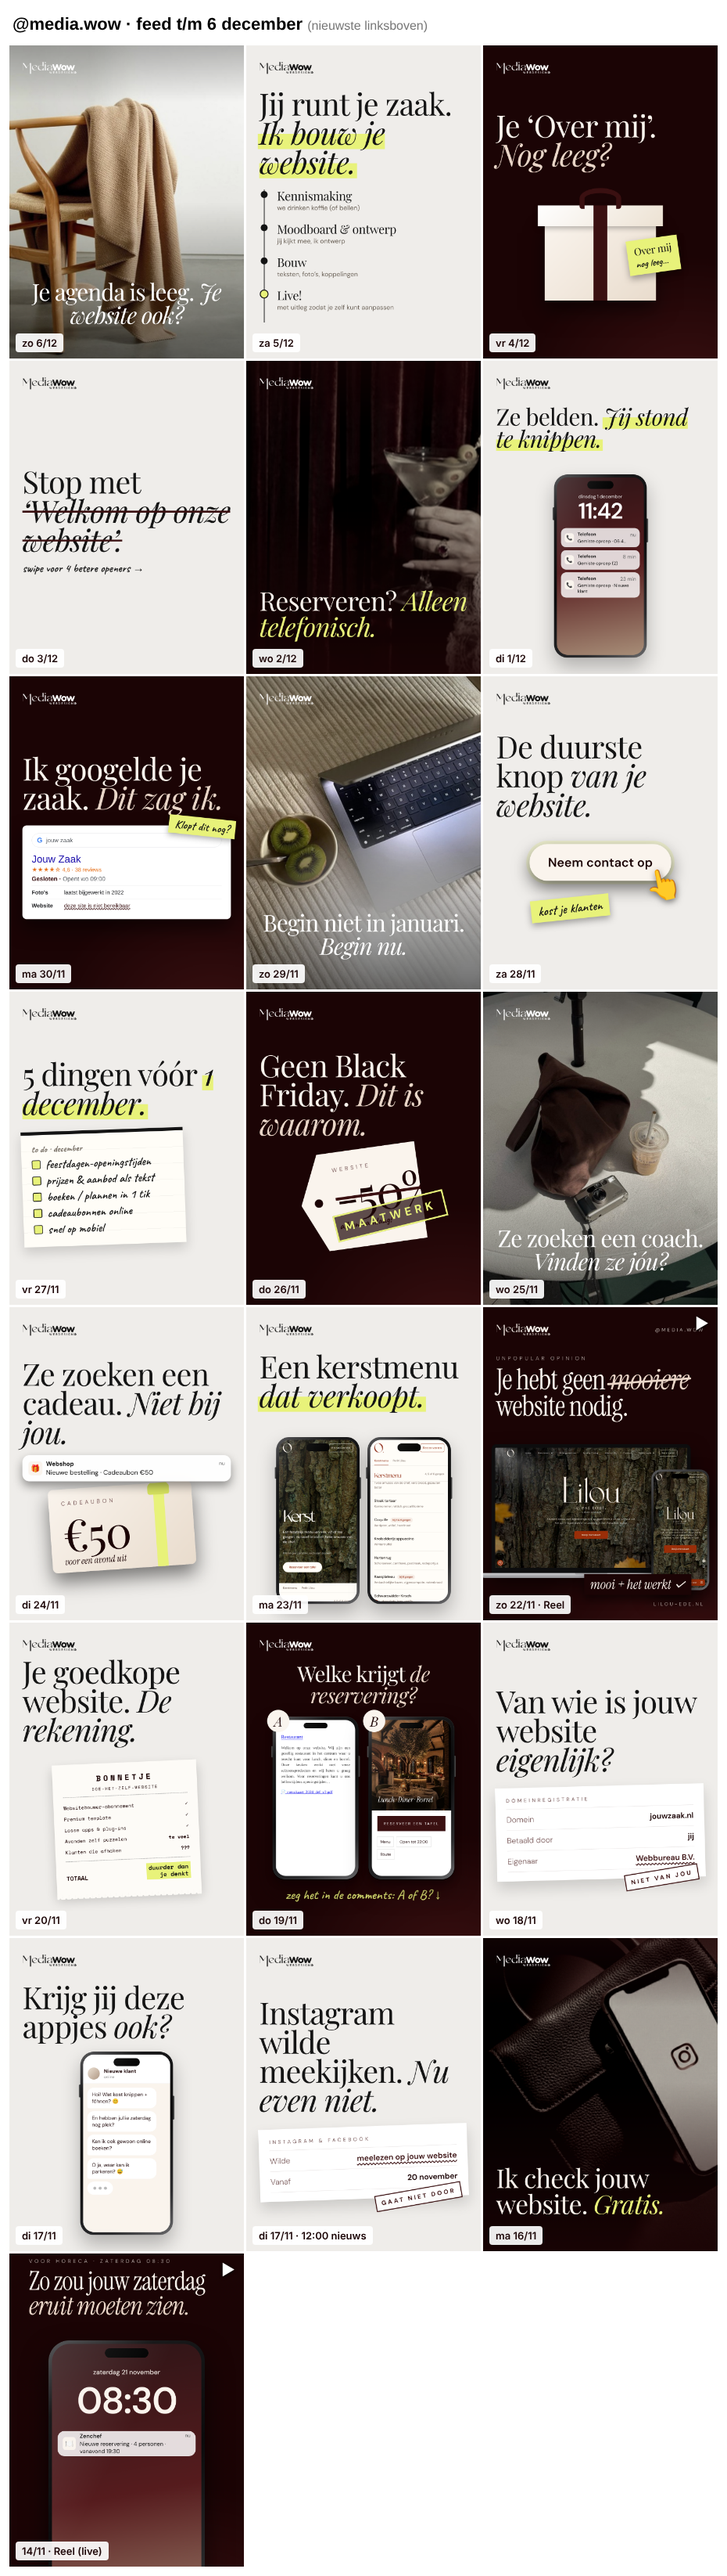
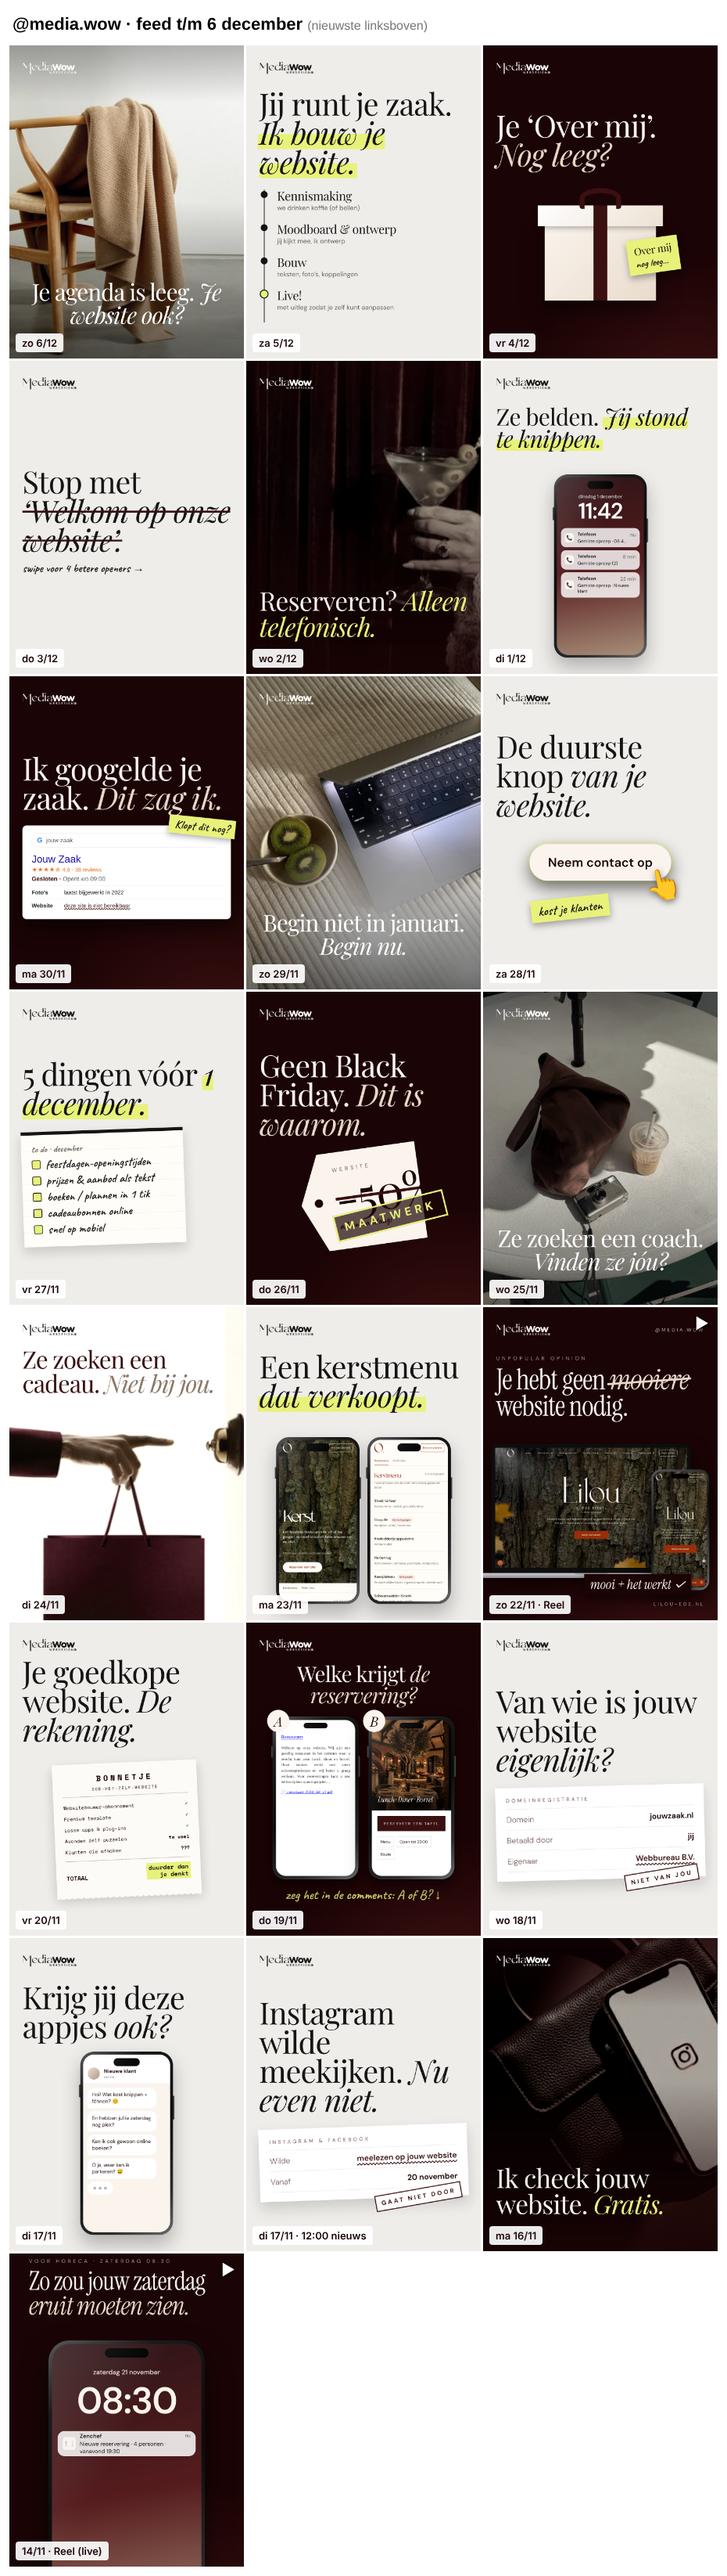
Cadeaubonnen-cover: foto met bordeaux tasje
Claude-Session: https://claude.ai/code/session_01RBQ5c9Pv2G8CobvSf5vDwJ

Changed region(s): [[0.0, 0.5269, 0.343, 0.6509]]

diff --git a/instagram/slides-week2.js b/instagram/slides-week2.js
@@ -68,18 +68,9 @@ Zo doe je het wél:
   {
     id: '2-di-cadeaubonnen',
     slides: [
-      { theme: 'dark', html: `
-        <div class="kicker">Voor salons, horeca & meer · december</div>
-        <h1 class="hero">Ze zoeken een cadeau. <em>Niet bij jou.</em></h1>
-        <div class="giftwrap">
-          <div class="gnotif"><div class="n-ic">🎁</div><div class="n-b"><div class="n-top"><b>Webshop</b><small>nu</small></div><p>Nieuwe bestelling · Cadeaubon €50</p></div></div>
-          <div class="giftcard">
-            <div class="gc-ribbon"></div><div class="gc-bow"></div>
-            <div class="gc-k">Cadeaubon</div>
-            <div class="gc-v">€50</div>
-            <div class="gc-s">voor een avond uit</div>
-          </div>
-        </div>` },
+      { theme: 'photo', cls: 'lwc lwct', light: true, html: `
+        <img class="bg-photo" src="{{img:bordeaux/tas-bel.jpg}}" style="object-position:50% 22%"><div class="bg-fade"></div>
+        <div class="mw-ttl"><h1>Ze zoeken een cadeau. <em>Niet bij jou.</em></h1></div>` },
       { theme: 'greige', html: `
         <div class="kicker">01 — Waarom dit werkt</div>
         <h2>Cadeaubonnen zijn <em>omzet vooraf.</em></h2>

diff --git a/instagram/build.js b/instagram/build.js
@@ -459,6 +459,11 @@ em{font-style:italic}
 .lwc .mw-ttl h1{font-family:'Playfair Display',serif!important;font-weight:400;font-size:100px;line-height:1;letter-spacing:-.03em;color:#fff}
 .lwc .mw-ttl h1 em{color:#fff!important;font-style:italic}
 .lwc .ftr{z-index:3}
+.lwct .bg-photo{filter:saturate(.55) sepia(.1) brightness(1.03)}
+.lwct .bg-fade{display:none}
+.lwct .mw-ttl{bottom:auto;top:170px;text-align:left;left:90px;right:90px}
+.lwct .mw-ttl h1{color:#3A1011;font-size:104px}
+.lwct .mw-ttl h1 em{color:#8A7967!important}
 /* ===== MediaWow fotocover (bordeaux-foto's, getemperd naar huisstijl) ===== */
 .mwc .bg-photo{filter:saturate(.32) sepia(.18) brightness(.72) contrast(1.1)}
 .mwc .bg-fade{background:linear-gradient(180deg,rgba(27,4,5,.55) 0%,rgba(27,4,5,0) 22%,rgba(27,4,5,0) 46%,rgba(27,4,5,.9) 100%)}
